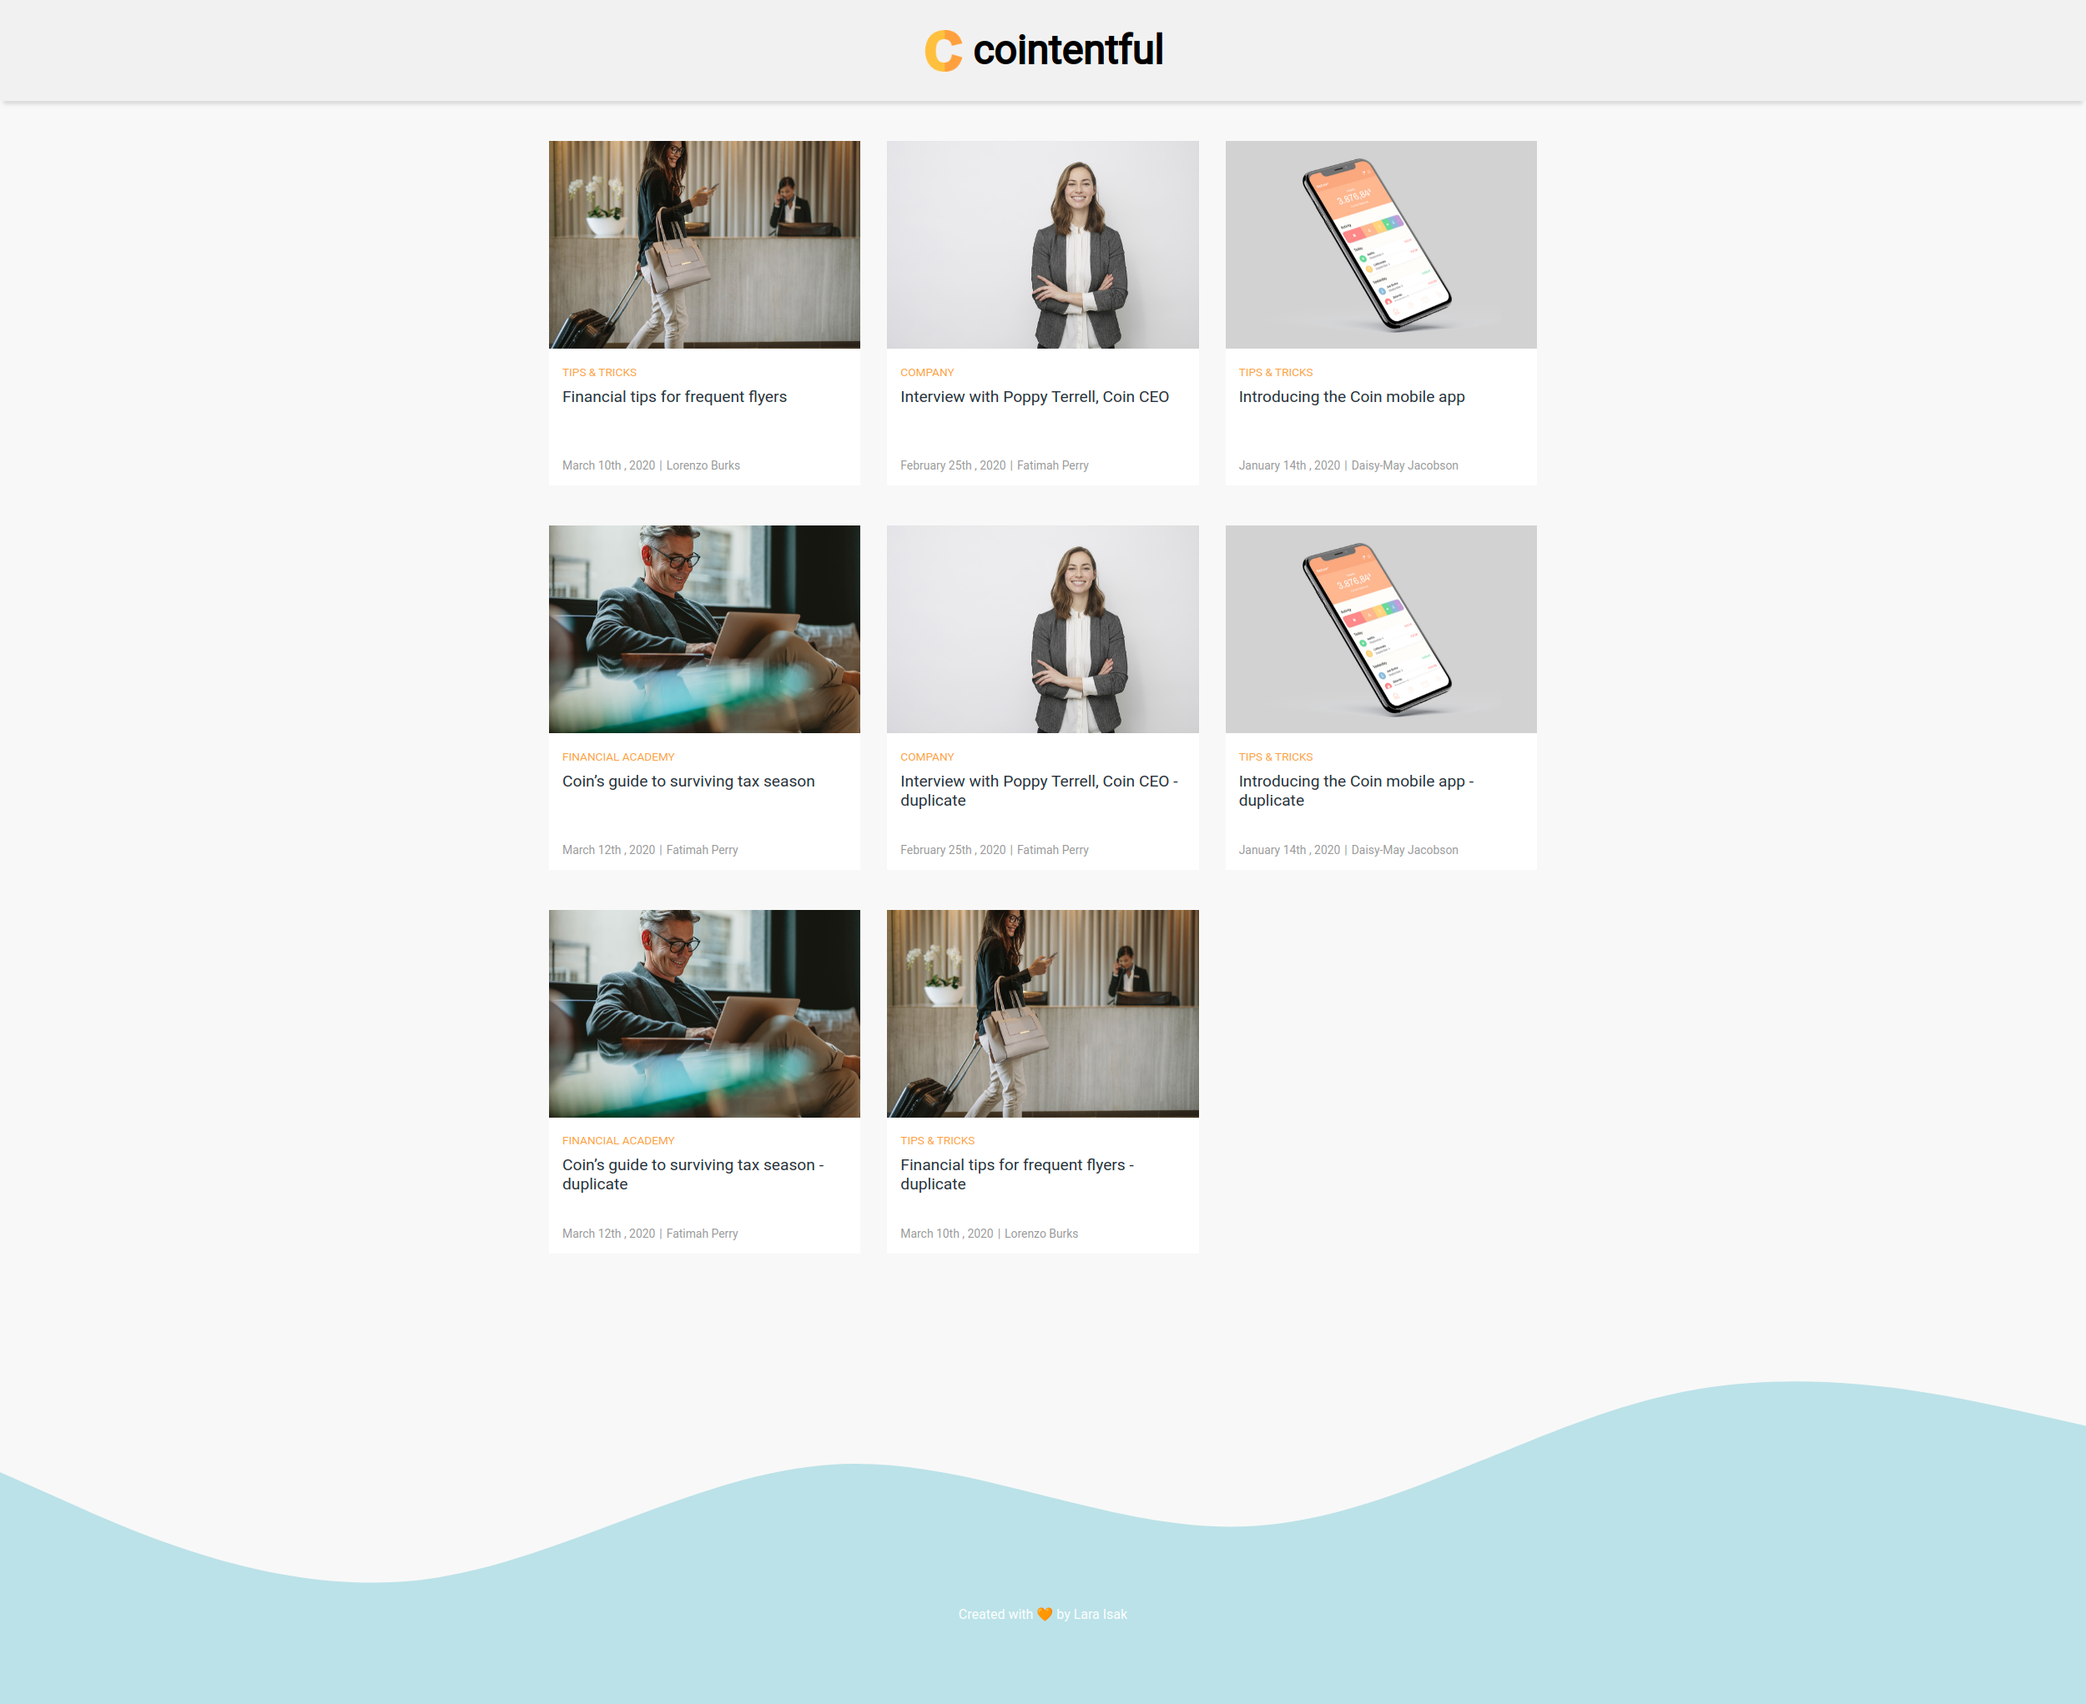
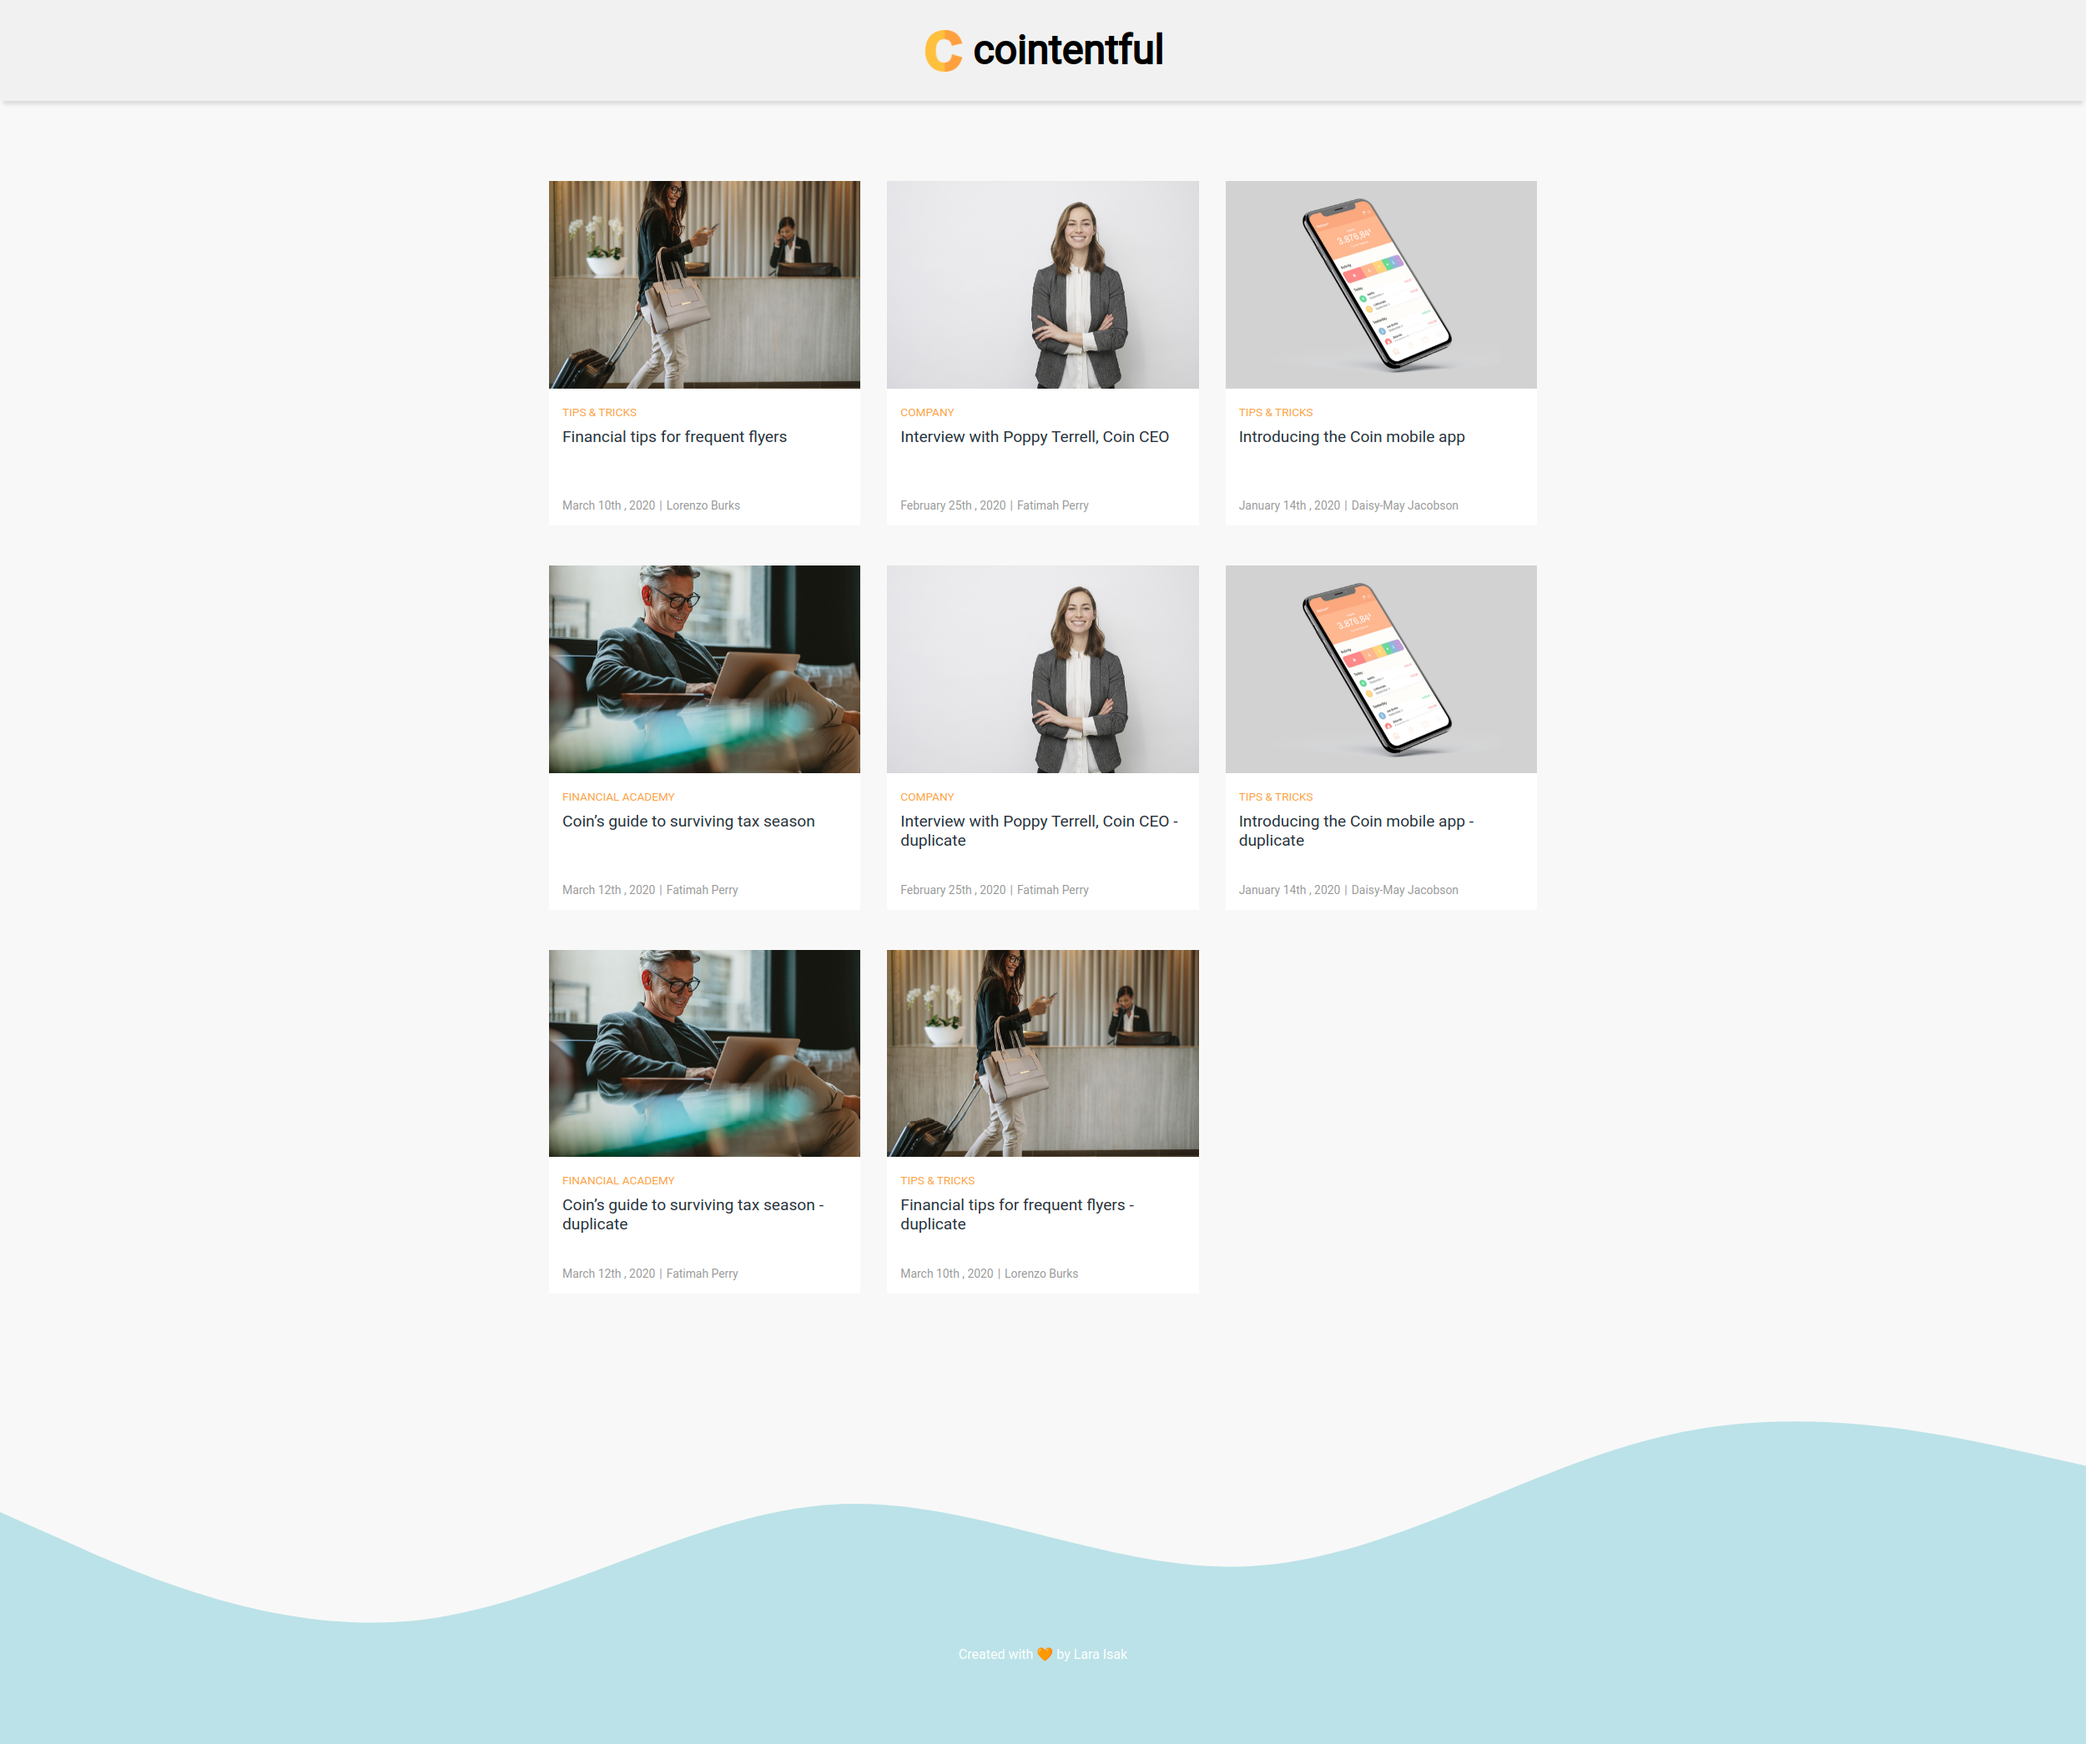
💄 increase padding top in the blog list view

diff --git a/src/components/Posts.scss b/src/components/Posts.scss
@@ -40,7 +40,7 @@ header {
 }
 
 .posts__container {
-  padding: 3rem 3rem 0;
+  padding: 6rem 3rem 0;
   max-width: 80em;
   margin: 0 auto;
 }
